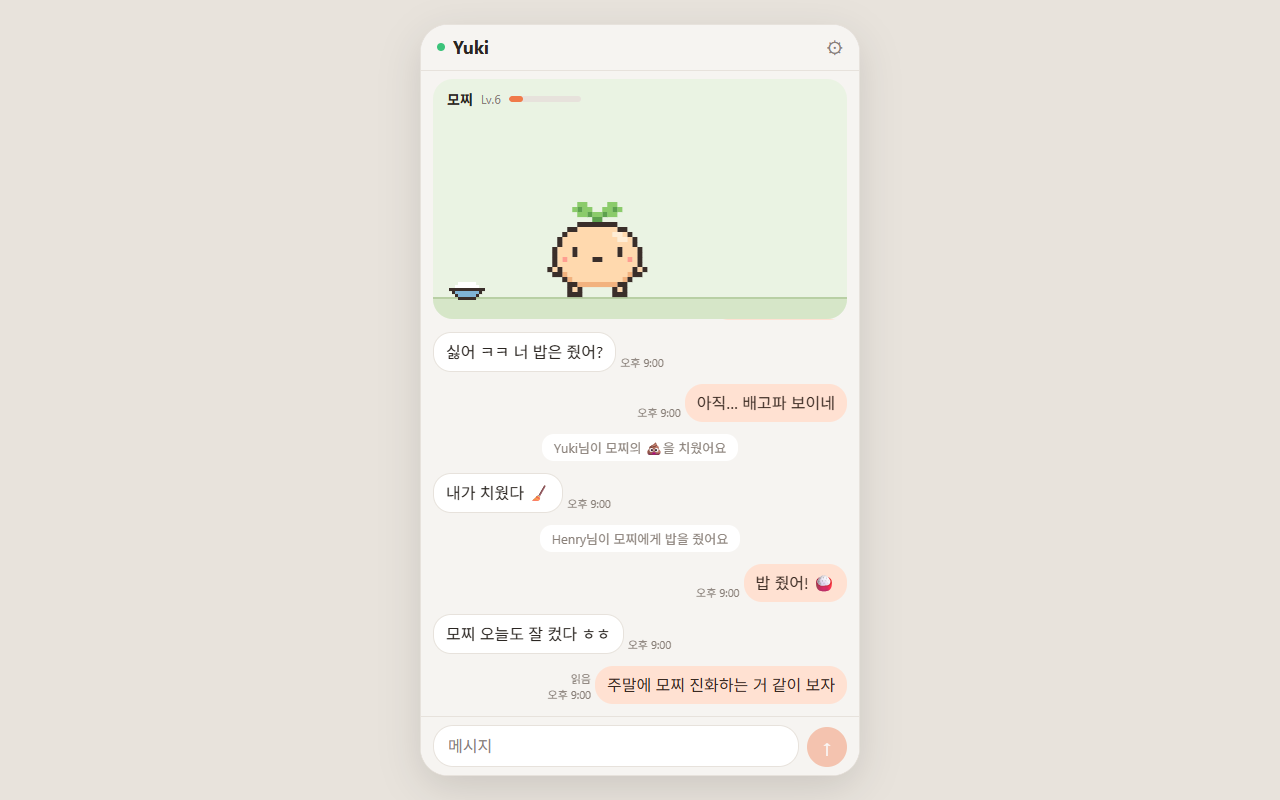
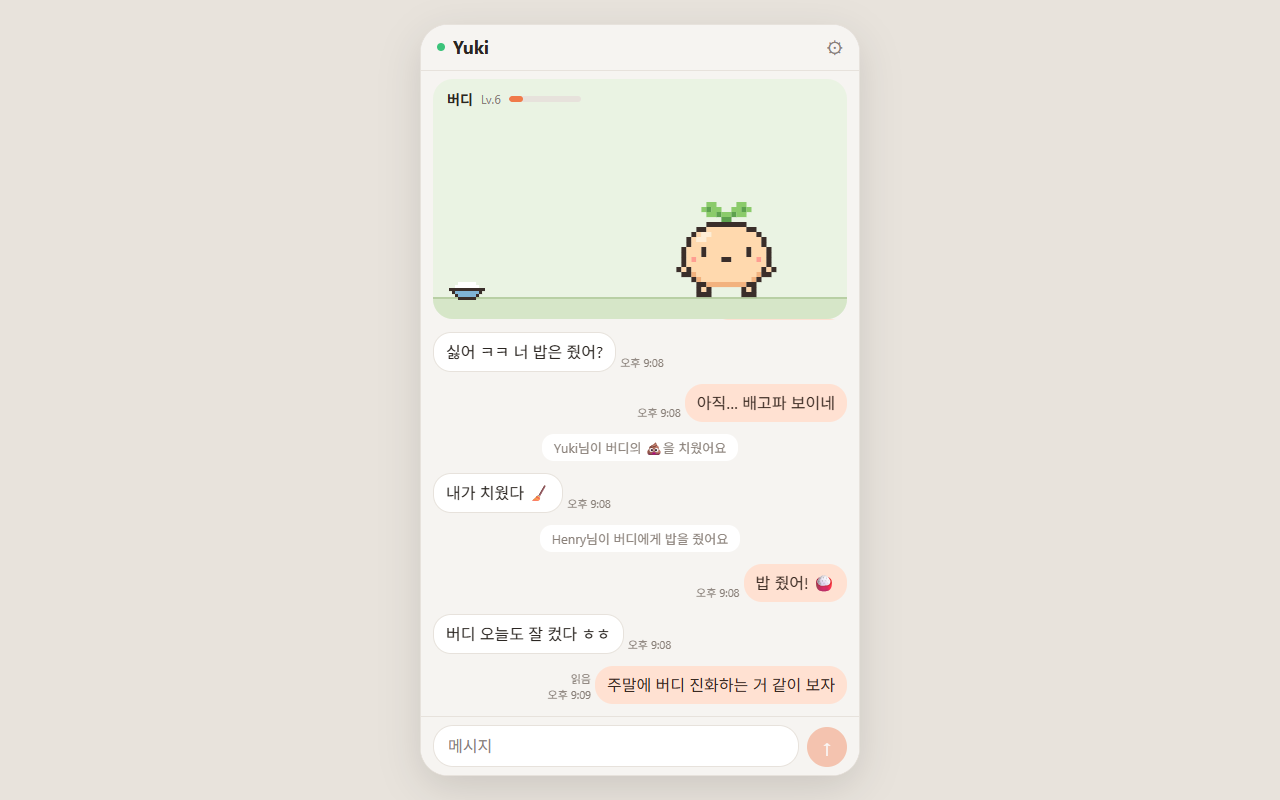
fix: 구경하기와 README에서 임의로 지은 이름 대신 "버디"로 부름
정식 이름이 정해지기 전이라 모찌(モチ, Mochi)처럼 따로 지은 이름을 쓰지 않는다. 캡처, 구경하기 GIF,
링크 미리보기 이미지도 다시 만들었다.

diff --git a/README.md b/README.md
@@ -23,9 +23,9 @@
 buddy-chat은 **딱 두 사람을 위한 메신저**예요. 그리고 두 사람 사이에는 작은 생명체 하나가 살고 있어요.
 
 ```text
-18:02   모찌가 💩을 쌌어요
+18:02   버디가 💩을 쌌어요
 
-Yuki    헐 모찌 똥 쌌어 ㅋㅋㅋ
+Yuki    헐 버디 똥 쌌어 ㅋㅋㅋ
 Henry   ㅋㅋㅋ 니가 치워
 Yuki    싫어 ㅋㅋ
 ```
@@ -41,7 +41,7 @@ Yuki    싫어 ㅋㅋ
 <div align="center">
 <table>
   <tr>
-    <td align="center"><img src="docs/images/empty.png" width="200" alt="혼자 시작한 방. 모찌가 태어났다는 안내와 친구 초대 버튼"><br><sub><b>혼자 시작해요</b><br>알이 태어나면 바로 채팅 화면</sub></td>
+    <td align="center"><img src="docs/images/empty.png" width="200" alt="혼자 시작한 방. 버디가 태어났다는 안내와 친구 초대 버튼"><br><sub><b>혼자 시작해요</b><br>알이 태어나면 바로 채팅 화면</sub></td>
     <td align="center"><img src="docs/images/invite.png" width="200" alt="8자리 초대 코드"><br><sub><b>친구 한 명을 초대해요</b><br>8자리 코드, 한 번만 사용</sub></td>
     <td align="center"><img src="docs/images/chat.png" width="200" alt="Buddy 이벤트가 섞인 대화"><br><sub><b>대화하며 함께 돌봐요</b><br>입력 중 · 읽음 · 접속 표시</sub></td>
     <td align="center"><img src="docs/images/buddy.png" width="200" alt="Buddy 상세: 경험치, 배부름, 청결, 밥주기, 청소하기"><br><sub><b>Buddy를 챙겨요</b><br>밥주기 · 청소하기</sub></td>
